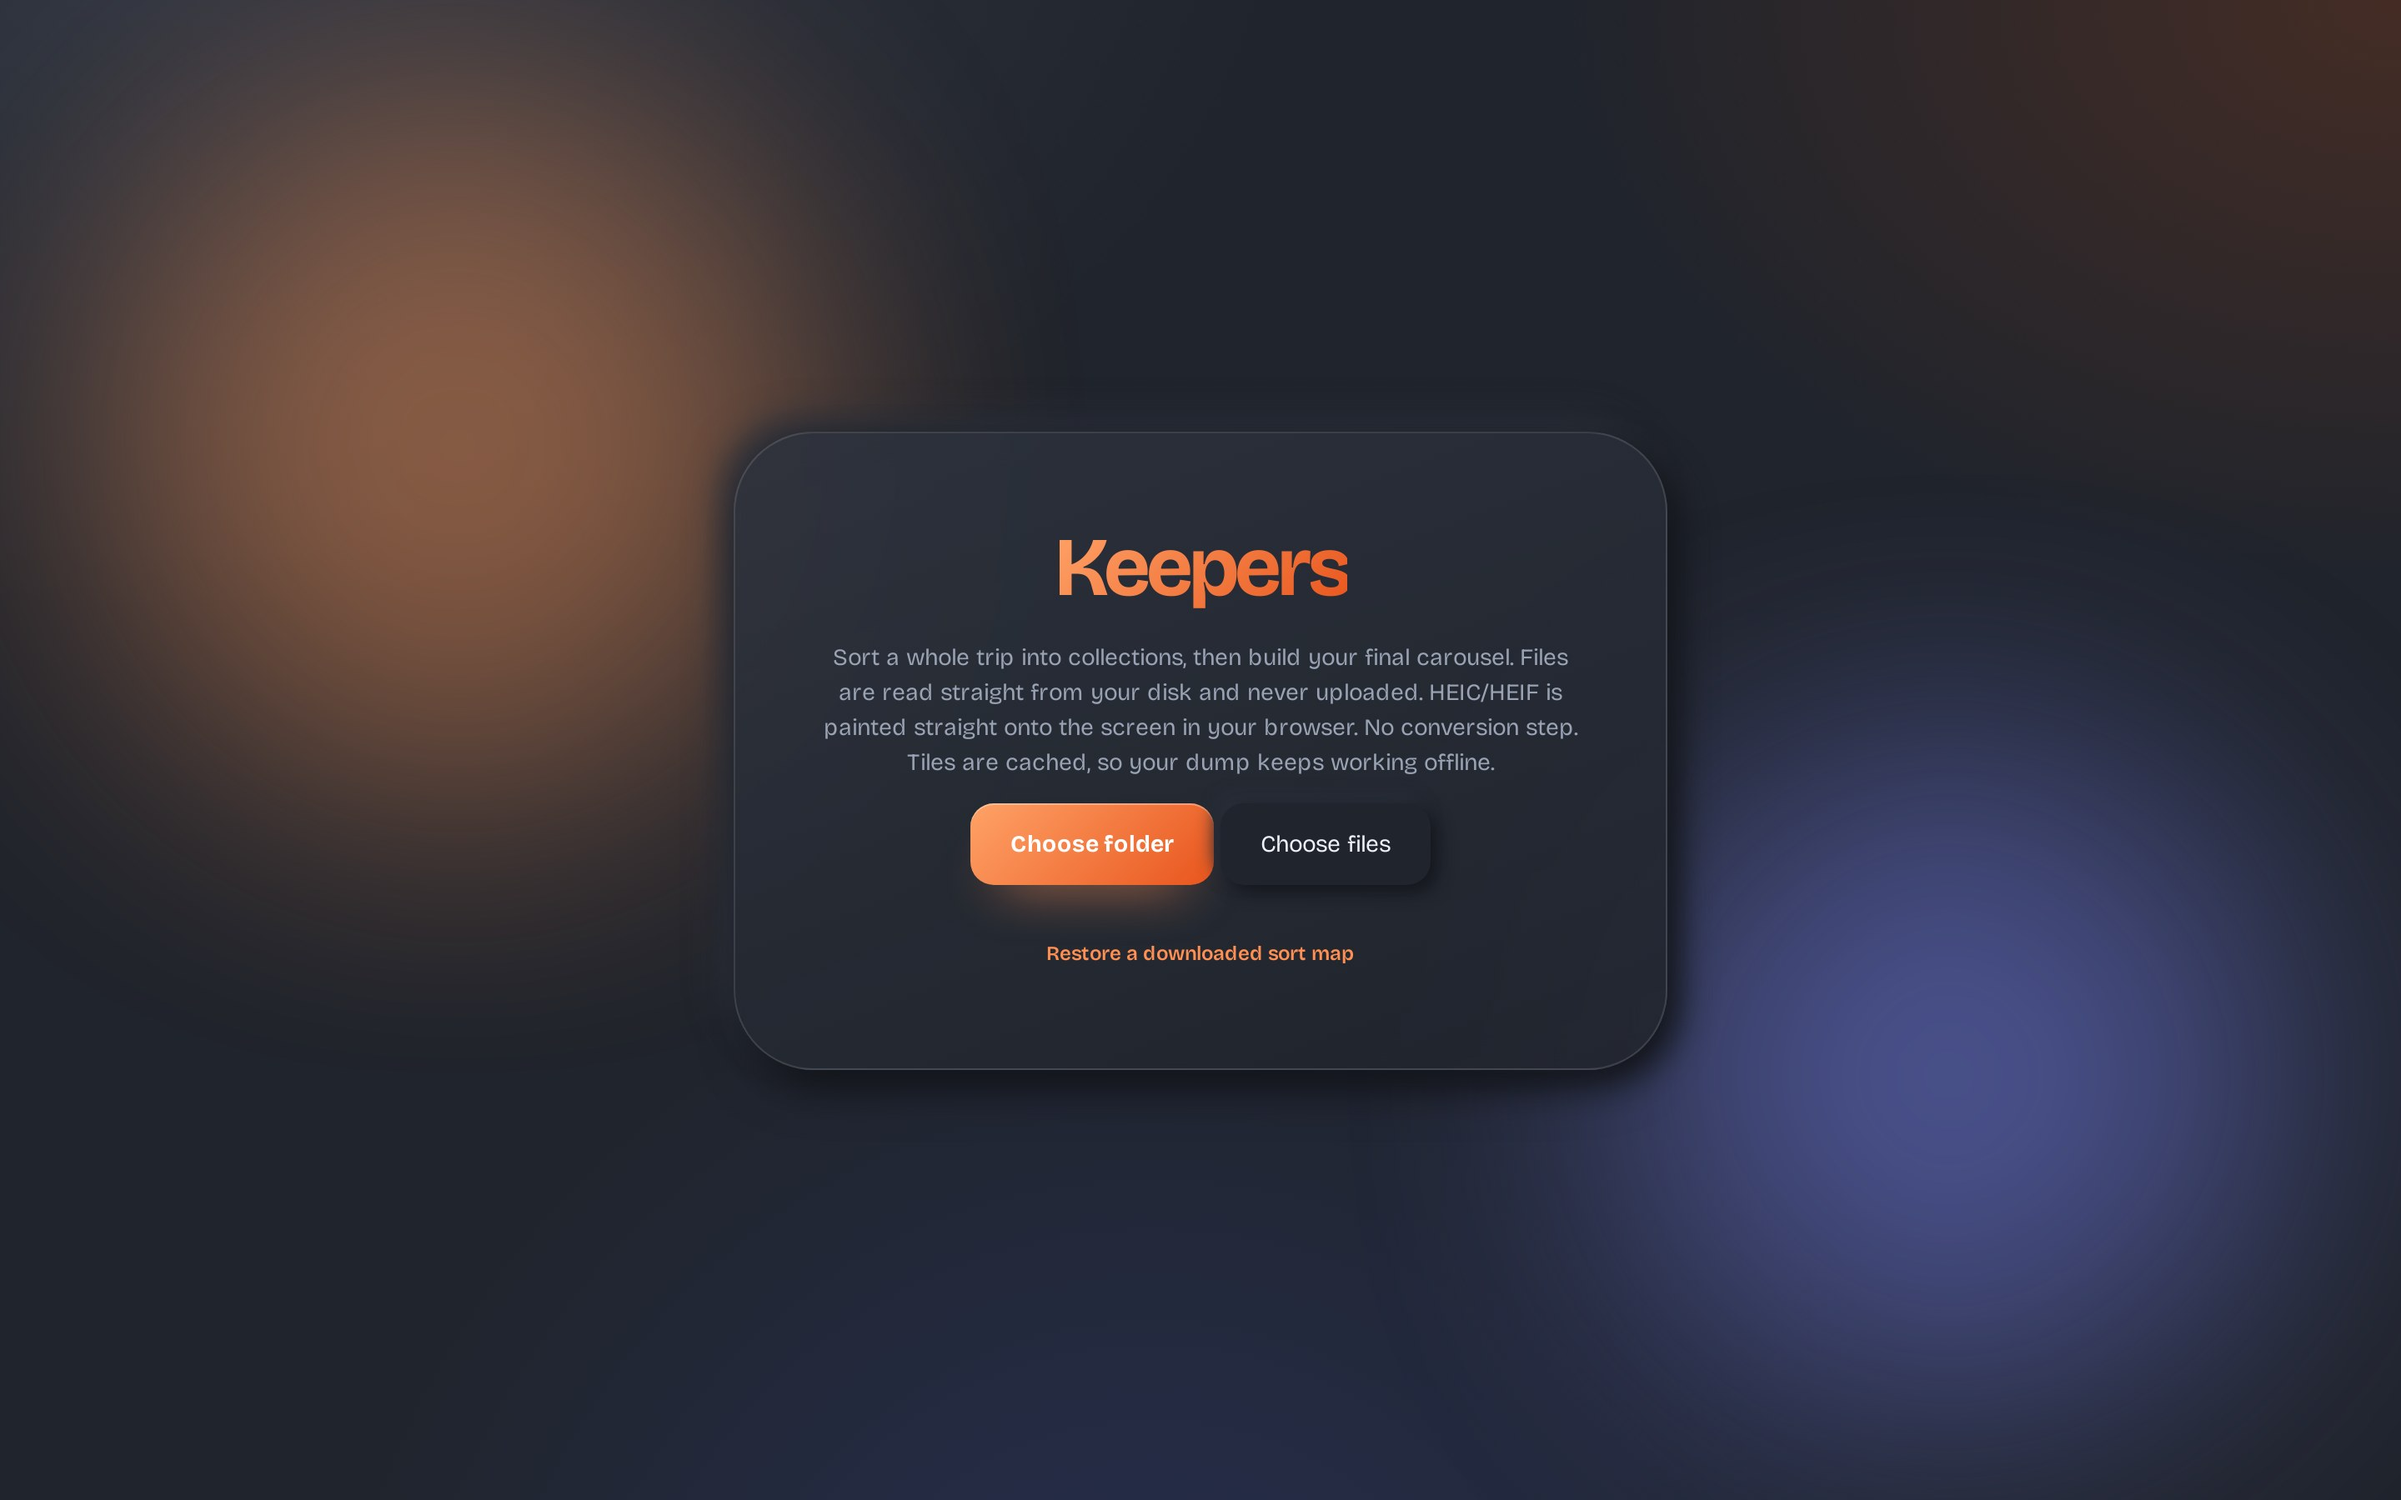
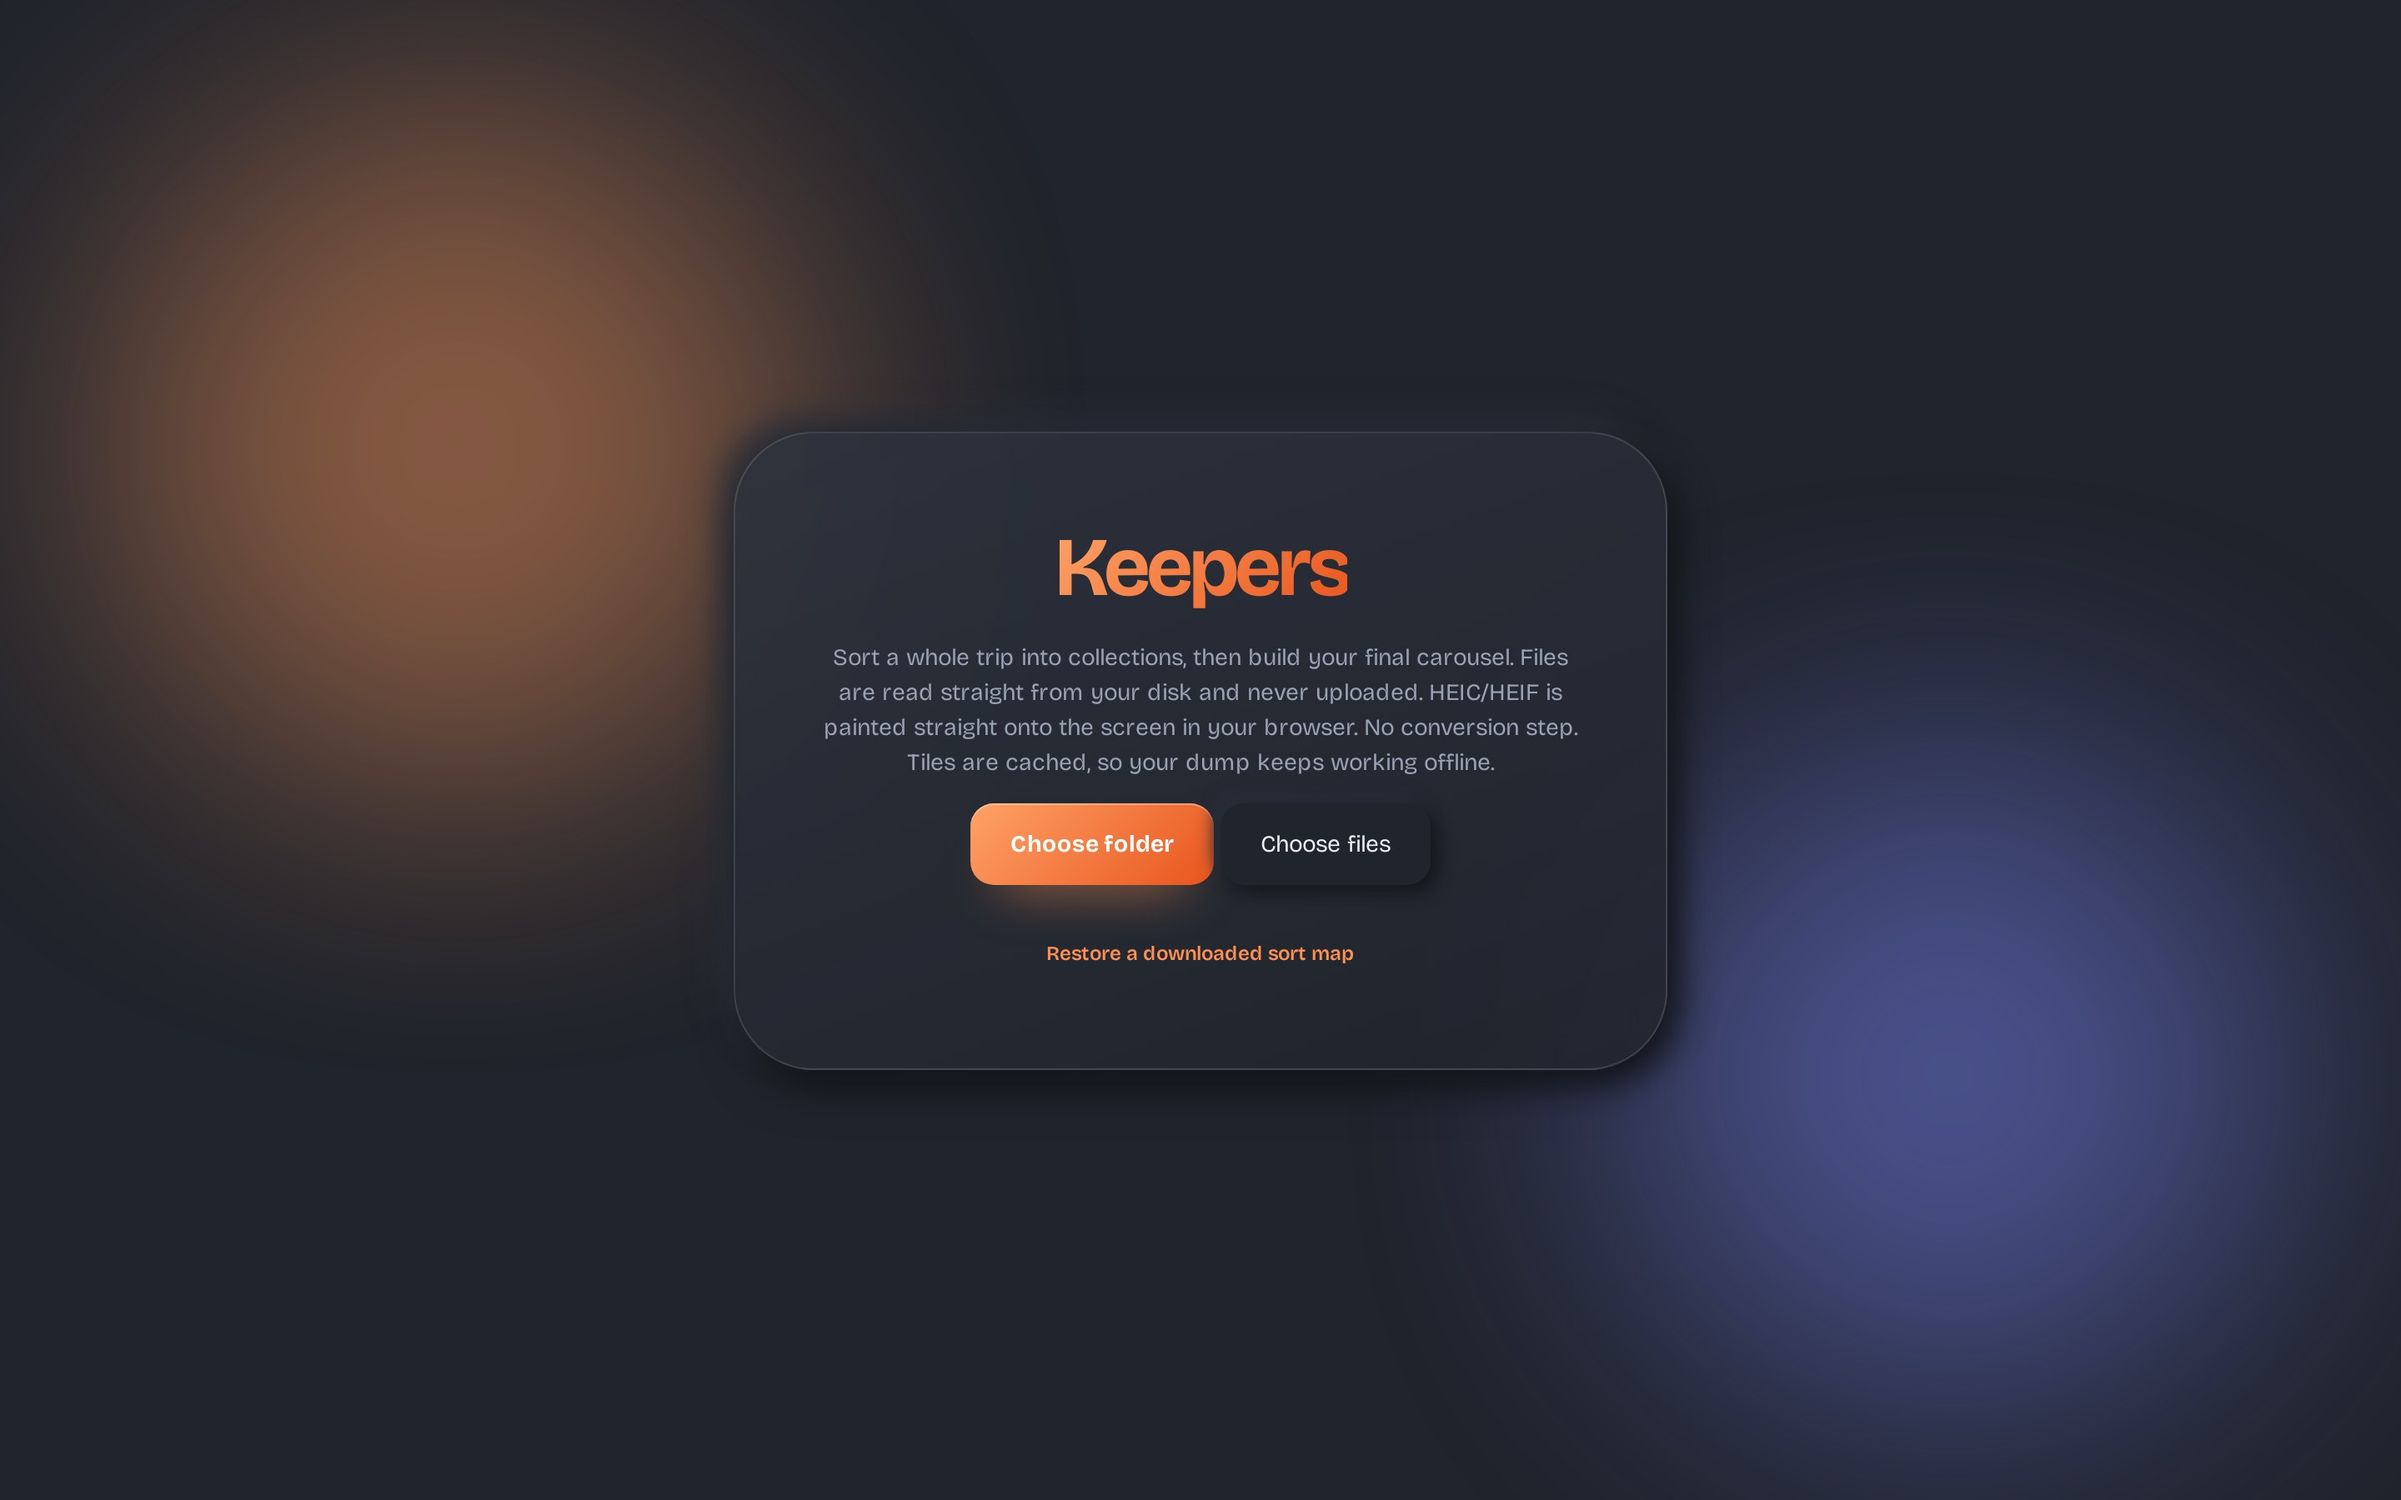
Flat controls everywhere, a real cog for Settings, page background on a fixed layer
- the Settings icon was a circle with spokes, so it read as a sun next to the
  theme toggle; swap it for a proper cog
- top bar, sidebar footer, bulk bar and menus now share the flat control
  surface: 1 px border, no inset shadows, 38 px height
- paint the page gradients on a fixed full viewport layer and keep a solid
  colour on html and body, so no band or seam can show under the content
- clip stray horizontal overflow instead of letting a scrollbar appear
- bottom padding of the main column down to 24 px

Changed region(s): [[0.875, 0.0, 1.0, 0.1556]]

diff --git a/index.html b/index.html
@@ -18,19 +18,21 @@
 --bg:#dde3ee;--hi:#ffffff;--lo:#adb8cb;--tx:#1c2330;--mu:#596377;--ac:#e8551d;--ac2:#ff9a5c;--cool:#5f6bff;
 --grad:linear-gradient(135deg,#ffa267 0%,#e8551d 100%);--gradc:linear-gradient(135deg,#8b96ff 0%,#4f5cff 100%);
 --line:#ffffffcc;--glass:rgba(223,229,239,.82);--glow:0 18px 38px -22px rgba(140,58,18,.55);
+--page:radial-gradient(1200px 820px at 6% -10%,#ffffffd0,transparent 62%),radial-gradient(900px 620px at 100% 2%,#ffd8c4b8,transparent 58%),radial-gradient(900px 900px at 46% 120%,#ccd7ffb0,transparent 62%);
 --up:8px 8px 20px #b8c2d4,-8px -8px 20px #ffffff;--us:4px 4px 10px #bcc6d8,-4px -4px 10px #ffffff;--dn:inset 4px 4px 9px #bcc6d8,inset -4px -4px 9px #ffffff}
 @media(prefers-color-scheme:dark){:root:not([data-theme="light"]){--bg:#20242c;--hi:#2b303a;--lo:#14171c;--tx:#eef1f7;--mu:#9aa3b4;--ac:#ff8f52;--ac2:#ffc39a;--cool:#818cff;
 --line:#ffffff1f;--glass:rgba(32,36,44,.84);--glow:0 18px 38px -20px #000000aa;
+--page:radial-gradient(1100px 760px at 8% -10%,#39414fbb,transparent 60%),radial-gradient(900px 620px at 100% 0,#5a3120a0,transparent 56%),radial-gradient(820px 820px at 48% 118%,#2a3463aa,transparent 62%);
 --up:8px 8px 20px #14171c,-8px -8px 20px #2b303a;--us:4px 4px 10px #14171c,-4px -4px 10px #2b303a;--dn:inset 4px 4px 9px #14171c,inset -4px -4px 9px #2b303a}}
 :root[data-theme="dark"]{--bg:#20242c;--hi:#2b303a;--lo:#14171c;--tx:#eef1f7;--mu:#9aa3b4;--ac:#ff8f52;--ac2:#ffc39a;--cool:#818cff;
 --line:#ffffff1f;--glass:rgba(32,36,44,.84);--glow:0 18px 38px -20px #000000aa;
+--page:radial-gradient(1100px 760px at 8% -10%,#39414fbb,transparent 60%),radial-gradient(900px 620px at 100% 0,#5a3120a0,transparent 56%),radial-gradient(820px 820px at 48% 118%,#2a3463aa,transparent 62%);
 --up:8px 8px 20px #14171c,-8px -8px 20px #2b303a;--us:4px 4px 10px #14171c,-4px -4px 10px #2b303a;--dn:inset 4px 4px 9px #14171c,inset -4px -4px 9px #2b303a}
-html{height:100%;scroll-padding-top:env(safe-area-inset-top,0px)}*{box-sizing:border-box}
-body{margin:0;color:var(--tx);font:14px/1.5 "Bricolage Grotesque",system-ui,-apple-system,"Segoe UI",sans-serif;font-optical-sizing:auto;min-height:100%;position:relative;
-background:radial-gradient(1200px 820px at 6% -10%,#ffffffd0,transparent 62%),radial-gradient(900px 620px at 100% 2%,#ffd8c4b8,transparent 58%),radial-gradient(900px 900px at 46% 120%,#ccd7ffb0,transparent 62%),var(--bg);background-attachment:fixed}
+html{height:100%;scroll-padding-top:env(safe-area-inset-top,0px);overflow-x:clip}*{box-sizing:border-box}
+html{background:var(--bg)}
+body{margin:0;color:var(--tx);font:14px/1.5 "Bricolage Grotesque",system-ui,-apple-system,"Segoe UI",sans-serif;font-optical-sizing:auto;min-height:100%;position:relative;overflow-x:clip;background:var(--bg)}
+body::after{content:"";position:fixed;inset:0;z-index:-1;pointer-events:none;background:var(--page)}
 body::before{content:"";position:fixed;inset:0;z-index:0;pointer-events:none;opacity:.5;background-image:radial-gradient(#3a4a6b26 1px,transparent 1px);background-size:24px 24px;-webkit-mask-image:radial-gradient(135% 90% at 50% 0%,#000 30%,transparent 78%);mask-image:radial-gradient(135% 90% at 50% 0%,#000 30%,transparent 78%)}
-:root[data-theme="dark"] body,html[data-theme="dark"] body{background:radial-gradient(1100px 760px at 8% -10%,#39414fbb,transparent 60%),radial-gradient(900px 620px at 100% 0,#5a3120a0,transparent 56%),radial-gradient(820px 820px at 48% 118%,#2a3463aa,transparent 62%),var(--bg)}
-@media(prefers-color-scheme:dark){:root:not([data-theme="light"]) body{background:radial-gradient(1100px 760px at 8% -10%,#39414fbb,transparent 60%),radial-gradient(900px 620px at 100% 0,#5a3120a0,transparent 56%),radial-gradient(820px 820px at 48% 118%,#2a3463aa,transparent 62%),var(--bg)}}
 button,select,input,textarea{font:inherit;color:inherit}
 :focus-visible{outline:2px solid var(--ac);outline-offset:3px}
 button{background:var(--bg);border:0;border-radius:14px;padding:9px 14px;cursor:pointer;display:inline-flex;align-items:center;gap:8px;box-shadow:var(--us);transition:box-shadow .15s}
@@ -50,7 +52,7 @@ nav{display:flex;flex-direction:column;gap:4px;padding:10px;border-radius:24px;b
 .col u{text-decoration:none;color:var(--mu);display:none}.col:hover u{display:inline-flex}
 .add{display:flex;gap:10px;padding:0 2px}.add input{flex:1;min-width:0;background:var(--bg);border:0;box-shadow:var(--dn);border-radius:14px;padding:10px 14px;outline:0}
 .add input:focus-visible{outline:2px solid var(--ac);outline-offset:2px}
-.main{padding:30px 34px 40px;min-width:0}
+.main{padding:30px 34px 24px;min-width:0}
 .top{display:flex;align-items:center;gap:12px;flex-wrap:wrap;margin-bottom:28px}
 .top h2{margin:0;font-size:34px;font-weight:600;letter-spacing:-.04em;line-height:1}.top .c{color:var(--mu)}
 .sp{flex:1}
@@ -285,6 +287,29 @@ transition:background .14s,border-color .14s}
 .shead{padding:16px 18px 12px}.sbody{padding:4px 18px 8px}.sfoot{padding:11px 18px}
 .sheet .dd{max-width:170px}.sheet input[type=range]{width:110px}}
 
+/* ---------- controls ---------- */
+.dd,.search,.seg,.add input,#addc,.top>button,.asideFoot button,#bulk button,.menu,textarea,select{
+background:var(--ctl);border:1px solid var(--ctlb);box-shadow:var(--ctlsh)}
+.dd,.search{height:38px;border-radius:11px}
+.dd{padding:0 11px}
+.dd .car{opacity:.45}
+.dd:hover,.search:hover,.top>button:hover,.asideFoot button:hover,#addc:hover{background:var(--ctlh)}
+.top>button{height:38px;padding:0 11px;border-radius:11px;justify-content:center;color:var(--tx)}
+.seg{padding:3px;gap:3px;border-radius:12px;display:inline-flex}
+.seg button{border:0;background:none;box-shadow:none;padding:5px 15px;border-radius:9px;color:var(--mu);font-weight:500}
+.seg button:hover{color:var(--tx)}
+.seg button.on{background:var(--bg);color:var(--tx);box-shadow:0 1px 2px #0000002e;font-weight:600}
+.asideFoot button{padding:10px 12px;border-radius:12px;justify-content:flex-start;font-size:13.5px}
+.add input{border-radius:12px;padding:10px 13px}
+.add input:focus-visible{outline:2px solid var(--ac);outline-offset:2px}
+#addc{border-radius:12px;padding:9px 13px}
+#bulk button{border-radius:20px;padding:6px 13px;font-size:12px}
+.menu{border-radius:14px;padding:6px}
+.menu button{border:0;box-shadow:none;background:none;border-radius:10px}
+.menu button:hover{background:var(--ctlh)}
+.mv button{border:1px solid var(--ctlb);box-shadow:var(--ctlsh);background:var(--ctl)}
+@media(max-width:820px){.asideFoot button{justify-content:center}.dd,.search{height:36px}}
+
 </style>
 </head>
 <body>
@@ -306,7 +331,7 @@ transition:background .14s,border-color .14s}
 const $=s=>document.querySelector(s),$$=s=>[...document.querySelectorAll(s)];
 const SAFARI=/^((?!chrome|android|crios|fxios).)*safari/i.test(navigator.userAgent);
 const P={x:'<path d="M6 6l12 12M18 6L6 18"/>',check:'<path d="M5 12.5l4.5 4.5L19 7"/>',clock:'<circle cx="12" cy="12" r="9"/><path d="M12 7v5l3 2"/>',star:'<path d="M12 3l2.7 5.6 6.1.9-4.4 4.3 1 6.1L12 17l-5.4 2.9 1-6.1L3.2 9.5l6.1-.9z"/>',skip:'<path d="M6 9l6 6 6-6"/>',undo:'<path d="M9 14L4 9l5-5"/><path d="M4 9h10a6 6 0 010 12h-3"/>',plus:'<path d="M12 5v14M5 12h14"/>',expand:'<path d="M14 4h6v6M10 20H4v-6M20 4l-7 7M4 20l7-7"/>',l:'<path d="M15 6l-6 6 6 6"/>',r:'<path d="M9 6l6 6-6 6"/>',copy:'<rect x="8" y="8" width="12" height="12" rx="2"/><path d="M16 8V6a2 2 0 00-2-2H6a2 2 0 00-2 2v8a2 2 0 002 2h2"/>',folder:'<path d="M3 7a2 2 0 012-2h4l2 2h8a2 2 0 012 2v8a2 2 0 01-2 2H5a2 2 0 01-2-2z"/>',
-gear:'<circle cx="12" cy="12" r="3.2"/><path d="M12 2.8v2.6M12 18.6v2.6M4.5 4.5l1.9 1.9M17.6 17.6l1.9 1.9M2.8 12h2.6M18.6 12h2.6M4.5 19.5l1.9-1.9M17.6 6.4l1.9-1.9"/>',
+gear:'<path d="M12 15.4a3.4 3.4 0 1 0 0-6.8 3.4 3.4 0 0 0 0 6.8Z"/><path d="M19.3 14.9a1.7 1.7 0 0 0 .3 1.9l.1.1a2 2 0 1 1-2.8 2.8l-.1-.1a1.7 1.7 0 0 0-1.9-.3 1.7 1.7 0 0 0-1 1.5v.2a2 2 0 1 1-4 0v-.1a1.7 1.7 0 0 0-1.1-1.5 1.7 1.7 0 0 0-1.9.3l-.1.1a2 2 0 1 1-2.8-2.8l.1-.1a1.7 1.7 0 0 0 .3-1.9 1.7 1.7 0 0 0-1.5-1H3.2a2 2 0 1 1 0-4h.1a1.7 1.7 0 0 0 1.5-1.1 1.7 1.7 0 0 0-.3-1.9l-.1-.1a2 2 0 1 1 2.8-2.8l.1.1a1.7 1.7 0 0 0 1.9.3h.1a1.7 1.7 0 0 0 1-1.5V3.2a2 2 0 1 1 4 0v.1a1.7 1.7 0 0 0 1 1.5 1.7 1.7 0 0 0 1.9-.3l.1-.1a2 2 0 1 1 2.8 2.8l-.1.1a1.7 1.7 0 0 0-.3 1.9v.1a1.7 1.7 0 0 0 1.5 1h.2a2 2 0 1 1 0 4h-.1a1.7 1.7 0 0 0-1.5 1Z"/>',
 dl:'<path d="M12 3v12"/><path d="M7 11l5 5 5-5"/><path d="M4 20h16"/>',search:'<circle cx="11" cy="11" r="6.5"/><path d="M15.8 15.8L20.5 20.5"/>',up:'<path d="M12 17V5"/><path d="M7 9l5-5 5 5"/><path d="M4 20h16"/>',trash:'<path d="M4 7h16"/><path d="M9.5 7V4h5v3"/><path d="M6.5 7l1 13h9l1-13"/>',file:'<path d="M6.5 3h7l4.5 4.5V21h-11z"/><path d="M13.5 3v4.5H18"/>',swap:'<path d="M4 8h13"/><path d="M14 5l3 3-3 3"/><path d="M20 16H7"/><path d="M10 13l-3 3 3 3"/>'};
 const ic=(n,s=17)=>`<svg width="${s}" height="${s}" viewBox="0 0 24 24" fill="none" stroke="currentColor" stroke-width="2" stroke-linecap="round" stroke-linejoin="round">${P[n]||''}</svg>`;
 const BASE=[{id:'new',n:'Inbox',col:'#8b93a7'},{id:'keep',n:'Candidates',col:'#34c98a'},{id:'later',n:'Save for later',col:'#f0b13c'},{id:'final',n:'Final cut',col:'#b583ff'},{id:'no',n:'Rejected',col:'#ef6b6b'}];

diff --git a/README.md b/README.md
@@ -40,7 +40,7 @@ The photos behind these shots are stock AI images converted to real HEIC files, 
 - **Final cut**, reorder slides, cap is 20 (Instagram carousel), copy filenames in order, get music ideas, keep notes/caption.
 - **Search and filters**, filter by photos / videos / HEIC only, and search by filename.
 - **Settings**: a real modal with a pinned header, a scrolling middle and a pinned footer. Theme (auto/light/dark), thumbnail size, guide lines, full-screen preview size, cached tile quality, parallel decoding, cache controls (usage in MB, clear, pre-cache the decoder).
-- Flat controls inside Settings: a 1 px border, no inset shadows, one shared surface colour. The floating bulk bar and the toast stay pinned to the viewport, and the toast steps above the bulk bar when both are up.
+- Flat controls in the top bar, the sidebar, the menus and Settings: a 1 px border, no inset shadows, one shared surface colour. The page background sits on a fixed layer so nothing can band at the bottom, and the floating bulk bar and the toast stay pinned to the viewport, with the toast stepping above the bulk bar when both are up.
 
 ## What you can take out of it
 
